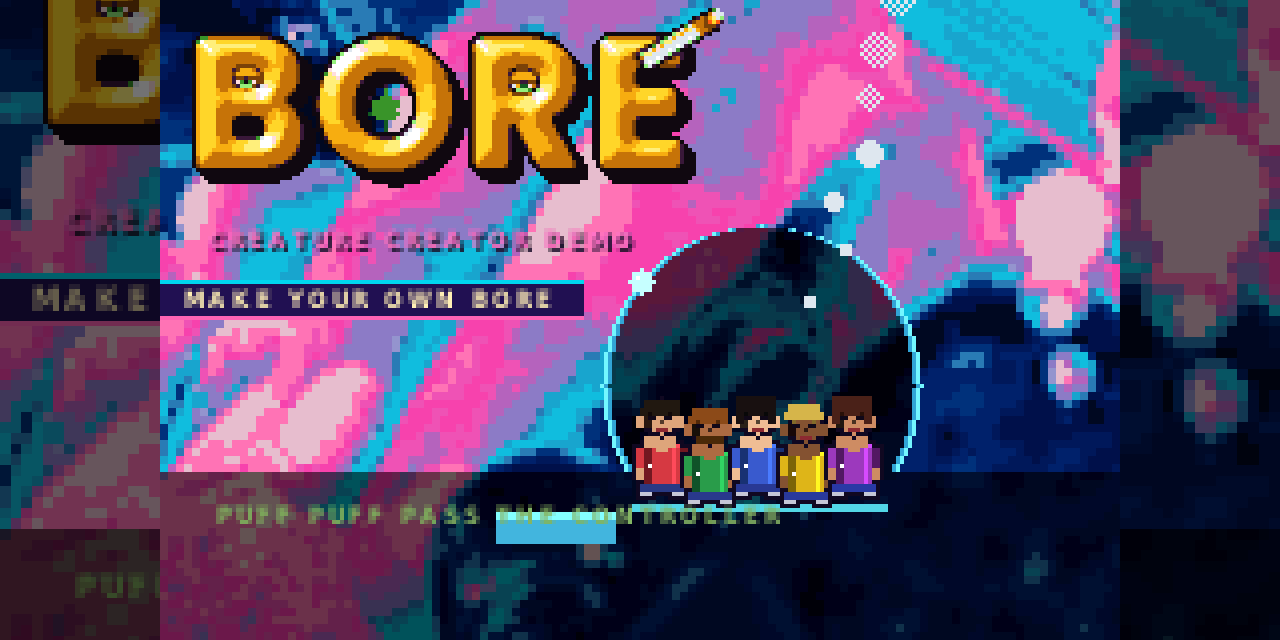
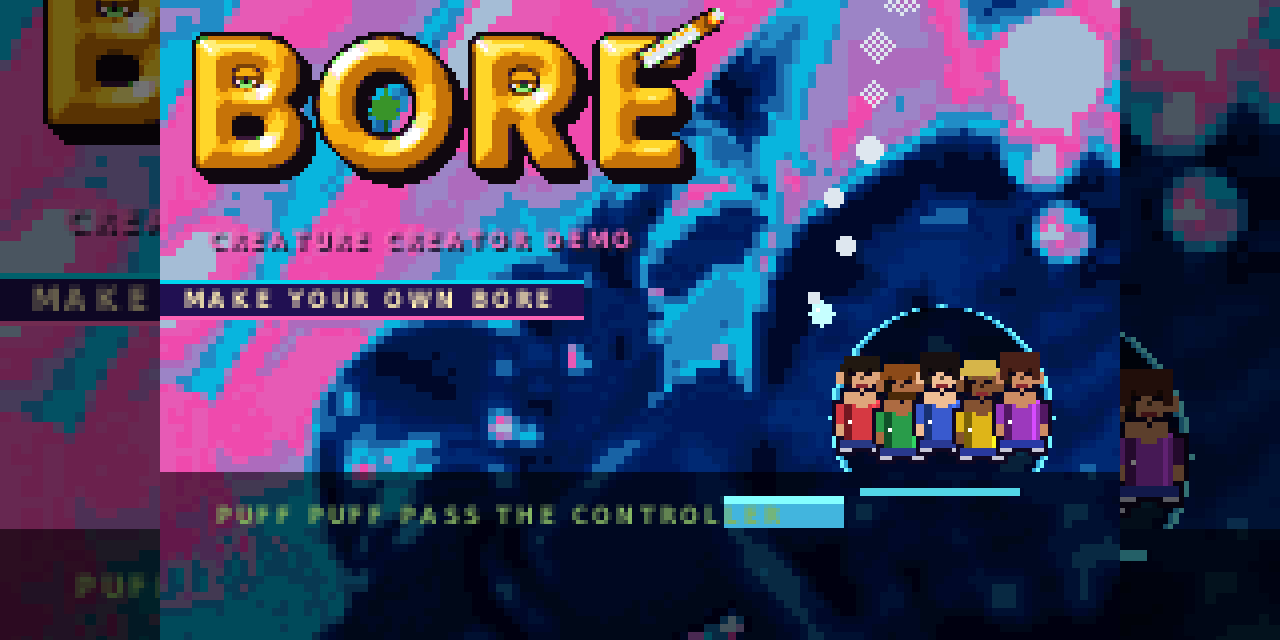
BORE CREATOR title: the glass bubble sits on the pipe's bowl in the cover art, with the Bores inside; cover refreshed
Claude-Session: https://claude.ai/code/session_012u2KAUJ6WZMd7FUWTErNFS

diff --git a/source/titleimgcc.h b/source/titleimgcc.h
@@ -1,84 +1,84 @@
 // GENERATED by tools/make_title_cc.py from the cover art: the BORE CREATOR title picture, 120x80, one hex digit per pixel, drawn at 2x.
-static const u16 titlePalCC[16]={ RGB(28,23,25),RGB(18,18,25),RGB(2,23,27),RGB(3,20,25),RGB(31,14,22),RGB(22,12,23),RGB(17,15,24),RGB(5,15,22),RGB(29,10,22),RGB(30,8,21),RGB(17,9,20),RGB(0,4,13),RGB(0,6,15),RGB(0,3,11),RGB(0,2,9),RGB(0,1,4) };
+static const u16 titlePalCC[16]={ RGB(20,23,26),RGB(1,22,27),RGB(19,16,24),RGB(4,17,24),RGB(28,11,22),RGB(29,9,21),RGB(21,13,23),RGB(3,12,20),RGB(23,7,19),RGB(0,5,14),RGB(0,4,12),RGB(0,4,13),RGB(0,3,11),RGB(0,3,10),RGB(0,3,9),RGB(0,1,5) };
 static const char* const titleArtCC[80]={
[80 lines of base64/hex data omitted]
+"333333331344444444455555666666662223112400004444445555666222222222665555445552311111132222226666554437779997777336554440",
+"222223331644444444555555666666662231334000004444445555546626622226665555555521111111122222222226654427797777732244554444",
+"223323332444444455555554666666622311324000444444455555554662626666664554455213333111122222222226455423777333200000045444",
+"223333334444444555555546666666222113340004444444455555554646626666665555552333373111322222222226645421331320000000004545",
+"333311124444445555555666666622223133440004444444555555555454466666645555523733773111322226222222665443132400000000000464",
+"311111344445555555554666666222231172400004444444455555555445554444455555237337731113226666662222665446655400000000000046",
+"111111655555555646666666222222331734000004444444455555555445555544555552397777731113226666666666665544555000000000000046",
[73 lines of base64/hex data omitted]
 };

diff --git a/source/main.c b/source/main.c
@@ -1618,11 +1618,11 @@ static void buildTitle(void){
 #ifdef CC_DEMO
     text(13,58,"CREATURE CREATOR DEMO",ink,1); text(12,57,"CREATURE CREATOR DEMO",RGB(31,14,24),1);
     { // THE CREATOR'S TITLE: a big glass pipe, its bowl full of a bunch of Bores sitting shoulder to shoulder (drawn in code, our own cast)
-      int cx=150, cy=96, R=40; for(int dy=-R;dy<=R;dy++){ int w=0; while((w+1)*(w+1)+dy*dy<=R*R) w++; int yy=cy+dy; if(yy<0||yy>=118) continue; for(int dx=-w;dx<=w;dx++){ int xx=cx+dx; if(xx<0||xx>=SW) continue; u16 c=fb[yy*SW+xx]; fb[yy*SW+xx]=shade(c,6); } }   // the glass: the picture seen darker through it
+      int cx=195, cy=104, R=28; for(int dy=-R;dy<=R;dy++){ int w=0; while((w+1)*(w+1)+dy*dy<=R*R) w++; int yy=cy+dy; if(yy<0||yy>=118) continue; for(int dx=-w;dx<=w;dx++){ int xx=cx+dx; if(xx<0||xx>=SW) continue; u16 c=fb[yy*SW+xx]; fb[yy*SW+xx]=shade(c,6); } }   // the glass: the picture seen darker through it
       for(int dy=-R;dy<=R;dy++){ int w=0; while((w+1)*(w+1)+dy*dy<=R*R) w++; if(cy+dy<118){ px(cx-w,cy+dy,RGB(14,30,31)); px(cx+w,cy+dy,RGB(14,30,31)); px(cx-w+1,cy+dy,RGB(6,20,26)); px(cx+w-1,cy+dy,RGB(6,20,26)); } }   // the rim
       rect(cx-R+8,cy+R-10,2*R-16,2,RGB(10,26,28)); rect(cx-R-26,cy+R-8,30,8,RGB(8,22,27)); rect(cx-R-26,cy+R-8,30,2,RGB(16,31,31));   // the foot of the bowl, the mouthpiece stem
       static const u16 skin[5]={RGB(27,20,15),RGB(21,13,8),RGB(29,23,18),RGB(16,10,6),RGB(25,17,12)}, top[5]={RGB(26,7,8),RGB(5,19,9),RGB(7,11,25),RGB(27,22,3),RGB(19,7,23)}, hair[5]={RGB(4,3,2),RGB(17,9,3),RGB(3,2,2),RGB(26,22,9),RGB(9,4,3)};
-      for(int i=0;i<5;i++){ int x=cx-25+i*12, y=cy+R-11-((i&1)?0:2); u16 sk=skin[i], tp=top[i], hr=hair[i], ol=RGB(2,1,4), jn=RGB(5,7,16+i), sd=shade(tp,9), lt=lite(tp,22);
+      for(int i=0;i<5;i++){ int x=cx-20+i*10, y=114-((i&1)?0:2); u16 sk=skin[i], tp=top[i], hr=hair[i], ol=RGB(2,1,4), jn=RGB(5,7,16+i), sd=shade(tp,9), lt=lite(tp,22);
           rect(x-6,y-3,13,4,ol); rect(x-5,y-3,11,3,jn); rect(x-5,y-3,11,1,shade(jn,18)); rect(x-6,y,5,2,ol); rect(x+2,y,5,2,ol); rect(x-5,y,3,1,RGB(24,24,26)); rect(x+3,y,3,1,RGB(24,24,26));   // thighs, knees, trainers
           rect(x-5,y-13,11,11,ol); rect(x-4,y-12,9,10,tp); rect(x-4,y-12,2,10,sd); rect(x+3,y-12,1,10,lt); rect(x-4,y-12,9,1,lt); rect(x-1,y-12,3,2,sk);   // torso: outline, shaded side, a lit shoulder line, the neck
           rect(x-7,y-12,3,9,ol); rect(x+5,y-12,3,9,ol); rect(x-6,y-11,2,6,tp); rect(x+5,y-11,2,6,sd); rect(x-6,y-6,2,3,sk); rect(x+5,y-6,2,3,sk);   // arms: sleeves, forearms on the knees

diff --git a/tools/make_title_cc.py b/tools/make_title_cc.py
@@ -6,7 +6,7 @@ from PIL import Image, ImageEnhance, ImageOps
 import os
 here=os.path.dirname(os.path.abspath(__file__))
 im=Image.open(os.path.join(here,'cover_bore_gba.jpg')).convert('RGB')
-im=im.crop((260,200,1088,717))                     # the hand and the glass piece (no GBA strip, no logo)
+im=im.crop((380,330,1088,802))                     # the hand and the pipe, its bowl up where the glass bubble sits
 im=im.resize((240,160),Image.LANCZOS)
 g=ImageOps.autocontrast(im.convert('L'),cutoff=0.5)
 g=ImageEnhance.Contrast(g).enhance(1.05)
